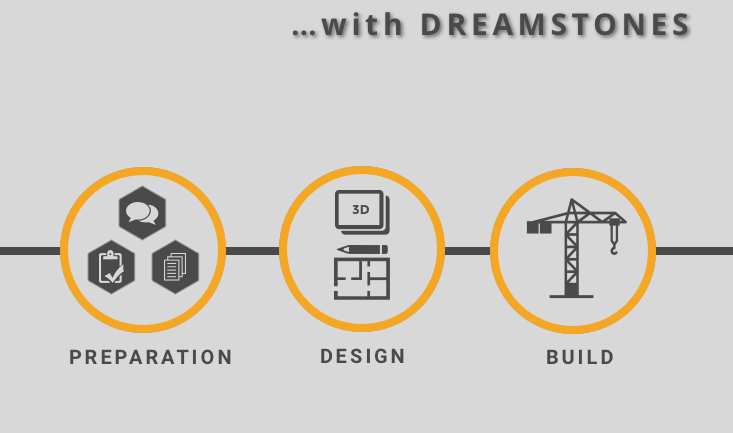
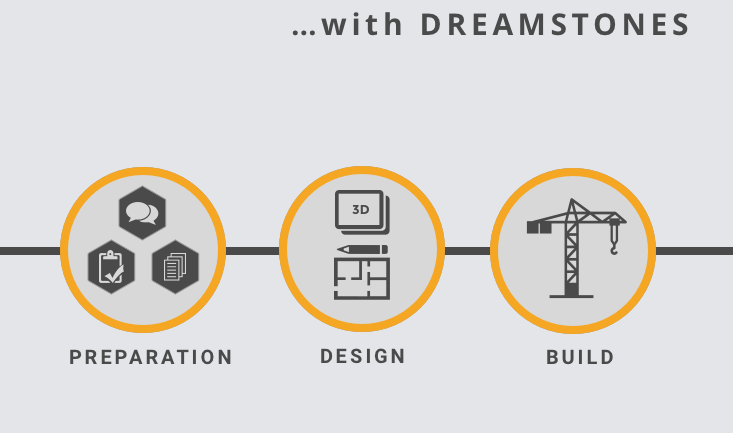
Modify All slider img to match with new color body background #e3e5e9

Changed region(s): [[0.3902, 0.03, 0.9604, 0.0901]]

diff --git a/app/assets/stylesheets/config/_variables.scss b/app/assets/stylesheets/config/_variables.scss
@@ -38,6 +38,7 @@ $grey-dark: #4A4A4A;
 $grey-dark-darken: #333232;
 $grey-light: #D8D8D8;
 $grey: #9B9B9B;
+$body: #e3e5e9;
 
 $link-color: $grey-dark ;
 $link-hover-color: lighten($link-color, 15%);

diff --git a/app/assets/stylesheets/components/_slider.scss b/app/assets/stylesheets/components/_slider.scss
@@ -8,7 +8,7 @@
   }
 
 .slider-light {
-  background-color: $grey-light;
+  background-color: $body-bg;
 
 }
 .slider-dark {
